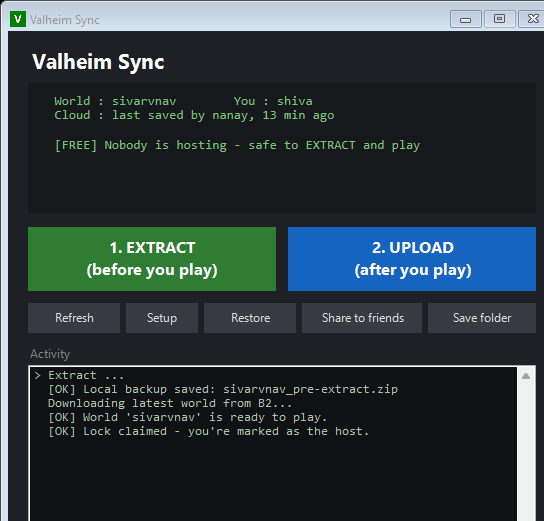
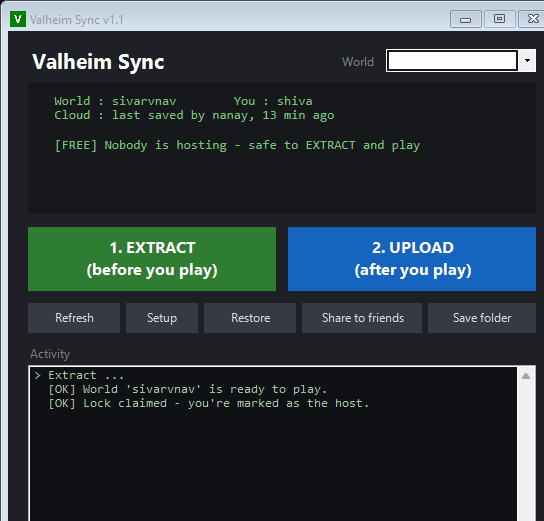
v1.1: auto-update, multiple worlds, storage cleanup, upload size guard

Changed region(s): [[0.0625, 0.737, 0.75, 0.8599], [0.625, 0.0921, 1.0, 0.1536], [0.1875, 0.0307, 0.2188, 0.0614]]

diff --git a/README.md b/README.md
@@ -24,11 +24,16 @@ everything you need:
 
 - **EXTRACT** (green) — download the latest world before you play
 - **UPLOAD** (blue) — save the world back to the cloud when you're done
+- **World dropdown** (top-right) — switch which world the group syncs, if you
+  keep more than one going
 - **Setup** — paste your Backblaze bucket + key (first time only); also adds a
   Desktop shortcut and lets you set an optional Discord webhook
 - **Restore** — roll the world back to any earlier save (pick from a list)
 - **Share to friends** — builds a zip on your Desktop to send to friends
 - **Refresh** / **Save folder** — check status, open the Valheim saves folder
+
+The app **checks GitHub for updates** on launch and offers to update itself when
+a new version is released, so you don't have to re-send the zip every time.
 
 The status panel at the top shows who hosted last and whether anyone is
 currently hosting. Pop-up warnings appear if something looks off — e.g. if the
@@ -105,9 +110,15 @@ That's the whole loop. Click **Refresh** any time to see who's hosting.
 ---
 
 ## Good to know
-- Every UPLOAD also keeps a timestamped copy under `valheim/<world>/history/` in
-  the bucket, so a corrupted save can be rolled back from the Backblaze web UI.
+- Every UPLOAD keeps a timestamped copy under `valheim/<world>/history/` (use the
+  **Restore** button to roll back). History is trimmed to the newest `HistoryKeep`
+  saves (default 20) and old file versions are purged each upload, so the bucket
+  stays small and well within B2's free tier.
+- If the world you're about to UPLOAD is much smaller than the cloud copy, the app
+  warns first — protection against uploading a wrong or corrupted world.
+- A host lock older than `LockStaleHours` (default 6) is treated as abandoned, so a
+  forgotten session never blocks the group.
 - Each machine keeps its last 10 worlds in `local-backups/` here as a safety net.
-- The shared world is set in `config.json` (`WorldName`). Change it there or via
-  **Setup** to sync a different world.
+- The shared world is set in `config.json` (`WorldName`) — or just use the **World**
+  dropdown in the app.
 - `rclone.exe` lives in `bin/` and is fetched automatically the first time.
